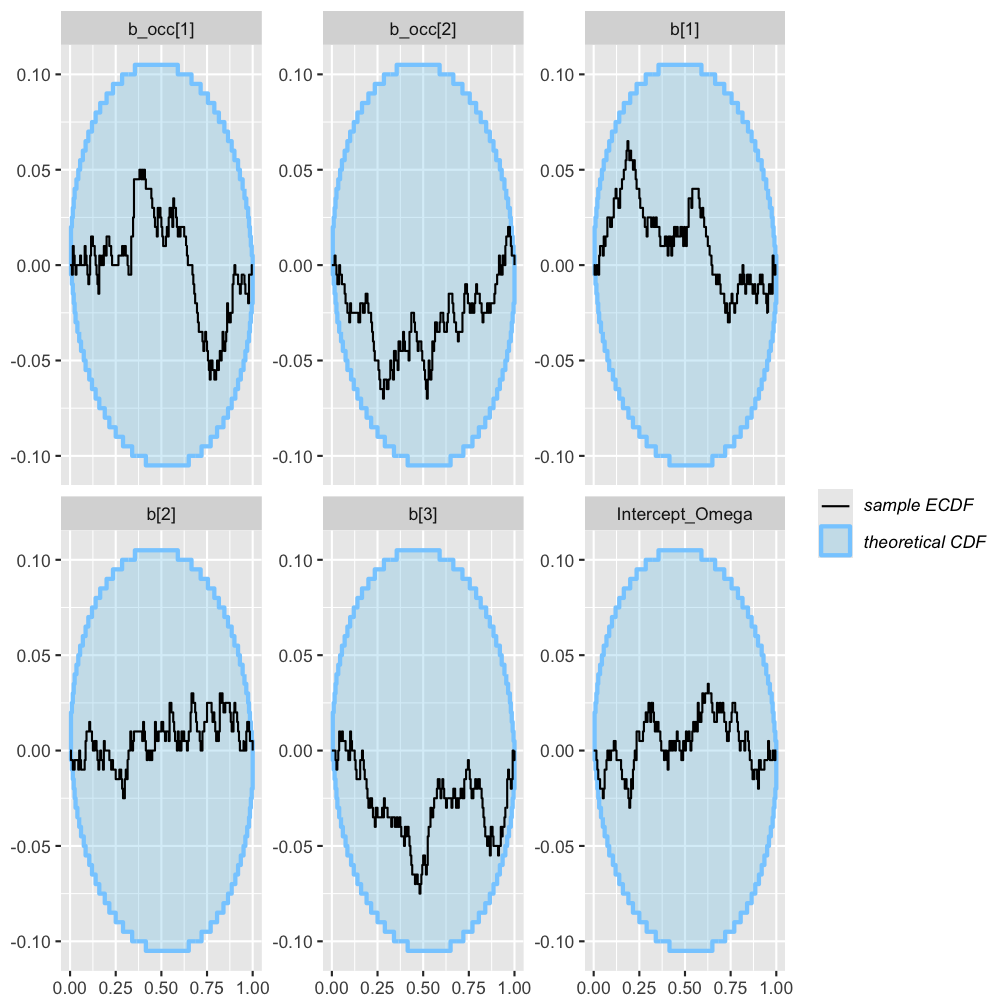
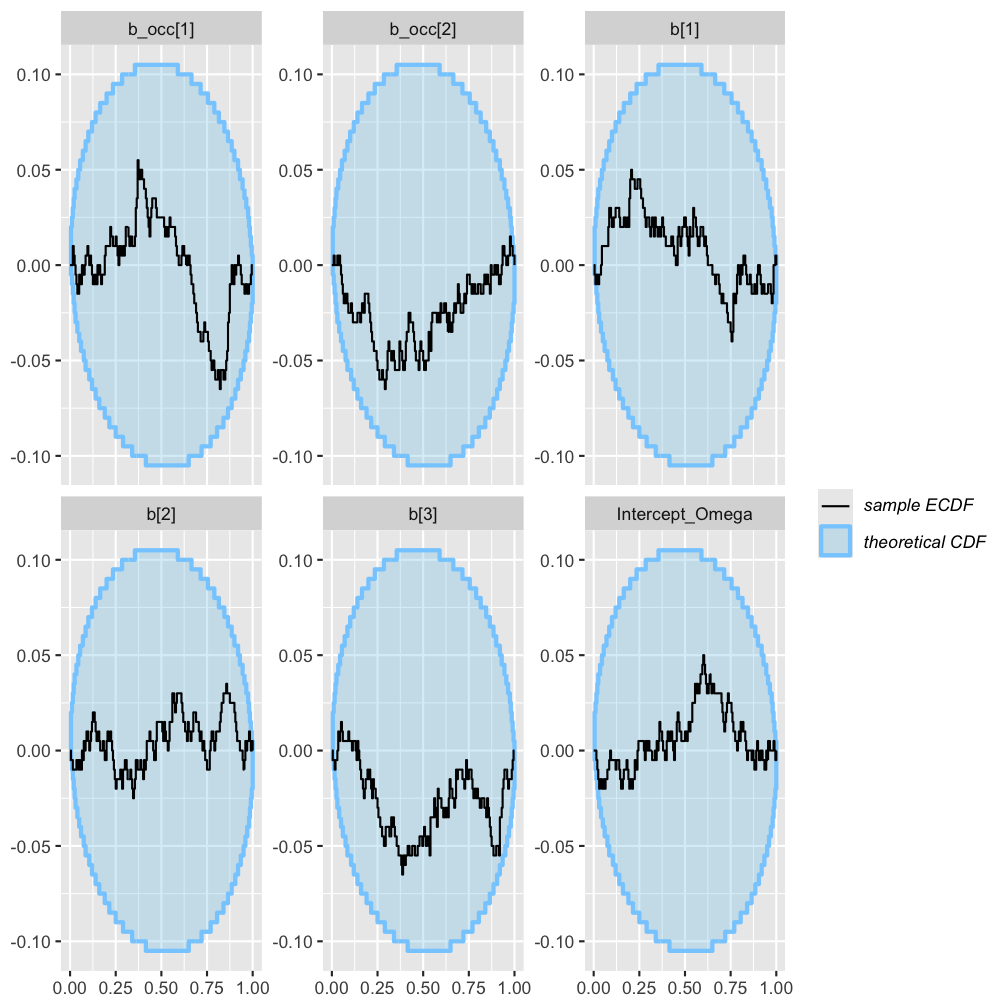
Refresh flocker 2.0 SBC results; note roughly halved wall time
Record refreshed SBC caches and figures. The user reports the full workflow completed in approximately half its previous wall time. Document anecdotal efficiency gains for multiseason and augmented models in NEWS, qualified as an uncontrolled timing comparison.

diff --git a/NEWS.md b/NEWS.md
@@ -1,3 +1,10 @@
+# flocker 2.0 (development)
+
+* Anecdotal results suggest significant efficiency gains for multiseason and
+  data-augmented models under the new data format and likelihood implementations.
+  The full SBC workflow completed in approximately half its previous wall time;
+  this was not a controlled performance benchmark.
+
 # flocker 1.1-1
 
 * Fixed single-visit event formatting dropping the dimensions of its index table.
